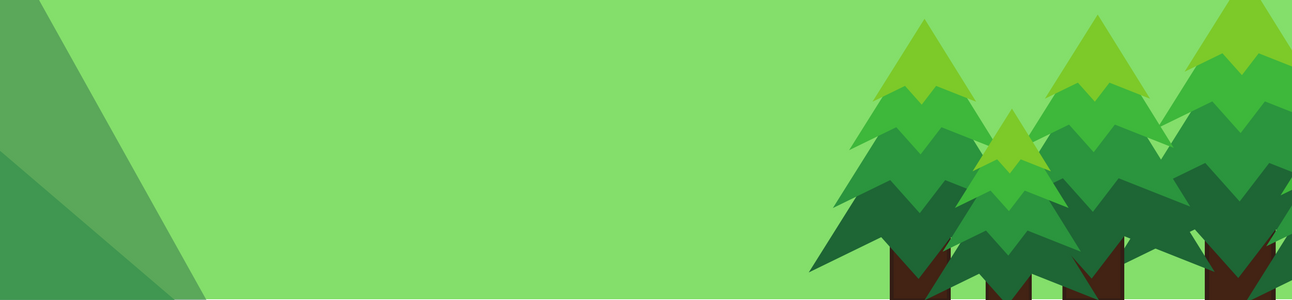
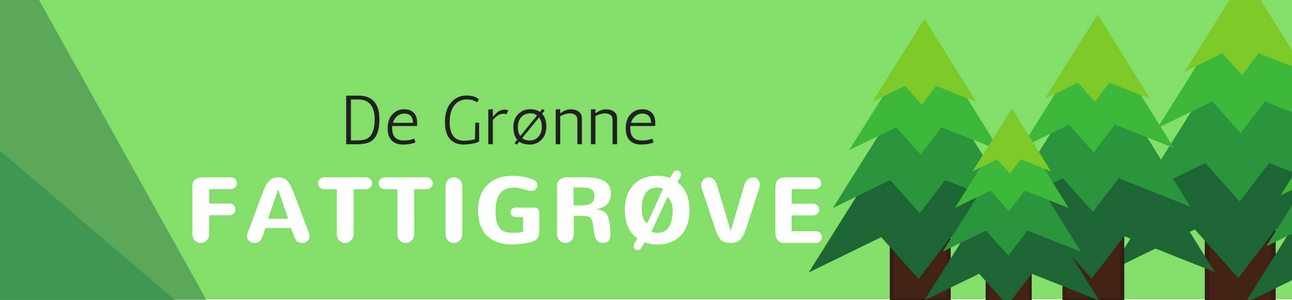
Grids sat op
med mindre ændringer

Changed region(s): [[0.1238, 0.57, 0.6502, 0.84], [0.2477, 0.3, 0.5263, 0.48]]

diff --git a/index.html b/index.html
@@ -11,25 +11,25 @@
 
 <body>
     <div id="pagewrap">
-        <header>
-            <h1><span class="Subtitle">De Grønne</span><br>
-                <span class="WhiteTitle">FATTIGRØVE</span></h1>
+        <header class="Header">
+            <img src="img/desktopheader.png" id=headerimg>
         </header>
-        <section id="MonthlyTip">
+        <div id="Grid"><section id="MonthlyTip">
             <h1 class="Subtitle">Månedens Tip</h1>
             <h2 class="GreenTitle">Kalkfjerner</h2>
             <p>Det er slet ikke så svært at fjerne kalk fra sit brusehoved</p>
-            <ul><li>Bland to dele opvaskemiddel med en del eddike</li>
-            <li>Hæld blandingen i en frysepose</li>
-            <li>Træk posen over brusehovedet</li>
-            <li>Lad blanding virke i 30 minutter og skyl af med rent vand</li></ul>
+            <ul>
+                <li>Bland to dele opvaskemiddel med en del eddike</li>
+                <li>Hæld blandingen i en frysepose</li>
+                <li>Træk posen over brusehovedet</li>
+                <li>Lad blanding virke i 30 minutter og skyl af med rent vand</li>
+            </ul>
         </section>
         <section id="GreenBalance">
             <h1 class="WhiteTitle">Grøn Balance</h1>
-            <p>Grøn Balance er en serie af de varer, som du bruger mest i hverdagen. Alle produkter i Grøn Balance serien er udvalgt med respekt og omhu – og udviklet til dig, der passer godt på dig selv og miljøet.<br>
-            Koncentreret opvaskemiddel fra Grøn Balance er Svanemærket, og det kan bruges til næsten alle former for rengøring. Du kan derfor holde dit hjem rent, samtidig med at du skåner miljøet for skadelige kemikalier.</p>
+            <p>Grøn Balance er en serie af de varer, som du bruger mest i hverdagen. Alle produkter i Grøn Balance serien er udvalgt med respekt og omhu – og udviklet til dig, der passer godt på dig selv og miljøet.<br> Koncentreret opvaskemiddel fra Grøn Balance er Svanemærket, og det kan bruges til næsten alle former for rengøring. Du kan derfor holde dit hjem rent, samtidig med at du skåner miljøet for skadelige kemikalier.</p>
         </section>
-        <section id="TakeCare">
+        <section id="Climate">
             <h1 class="GreenTitle">Pas på miljøet</h1>
             <p>Polarisen smelter, orkaner raser og temperaturen stiger. Klimaet ændrer sig drastisk, og det er vores skyld. Vi skal alle passe på kloden - det er den eneste vi har.</p>
         </section>
@@ -37,17 +37,17 @@
             <h1 class="GreenTitle">Tilmeld dig vores nyhedsbrev</h1>
             <p>Og modtag nye tips hver måned til en bæredygtig livsstil for grønne fattigrøve.</p>
         </section>
-        <section id="Questions">
+        <section id="Contact">
             <h1 class="WhiteTitle">Har du nogle spørgsmål?</h1>
             <p>Har du nogle spørgsmål?
-            <br>Du er velkommen til at ringe til os eller sende os en mail
-            <br>Grøn Balance
-            <br>Kærup Industrivej 12
-            <br>4100 Ringsted
-            <br>Tlf: 70 20 02 68
-            <br>Mail: kontakt@groenbalance.dk</p>
+                <br>Du er velkommen til at ringe til os eller sende os en mail
+                <br>Grøn Balance
+                <br>Kærup Industrivej 12
+                <br>4100 Ringsted
+                <br>Tlf: 70 20 02 68
+                <br>Mail: kontakt@groenbalance.dk</p>
         </section>
-
+        </div>
         <footer>
 
         </footer>

diff --git a/style.css b/style.css
@@ -2,6 +2,12 @@ section {
     
 }
 
+#headerimg {
+    width: 100%;
+    height: auto;
+    display: block;
+}
+
 .Subtitle {
     font-family: Quattrocento;
 }
@@ -16,5 +22,42 @@ section {
 
 p {
     font-family: Calibri;
+}
+
+#Grid {
+    display: grid;
+    grid-template-columns: 1fr;
+    grid-template-rows: 1fr 1fr 1fr 1fr 1fr 1fr;
+    grid-template-areas: 
+        "Monthly"
+        "Green"
+        "Climate"
+        "Newsletter"
+        "Contact";
+}
+
+#MonthlyTip {
+    grid-area: Monthly;
+    background: green;
+}
+
+#GreenBalance {
+    grid-area: Green;
+    background: blue;
+}
+
+#Climate {
+    grid-area: Climate;
+    background: red;
+}
+
+#Newsletter {
+    grid-area: Newsletter;
+    background: pink;
+}
+
+#Contact {
+    grid-area: Contact;
+    background: yellow;
 }
 
